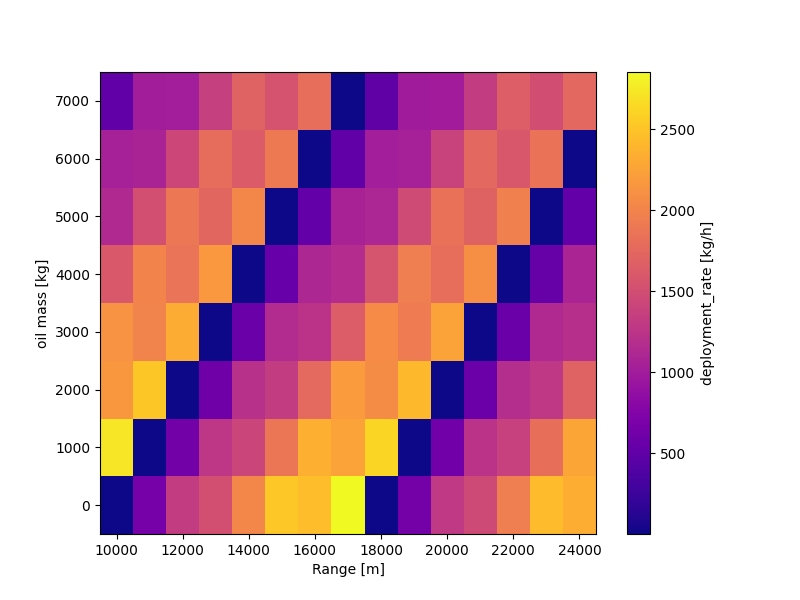
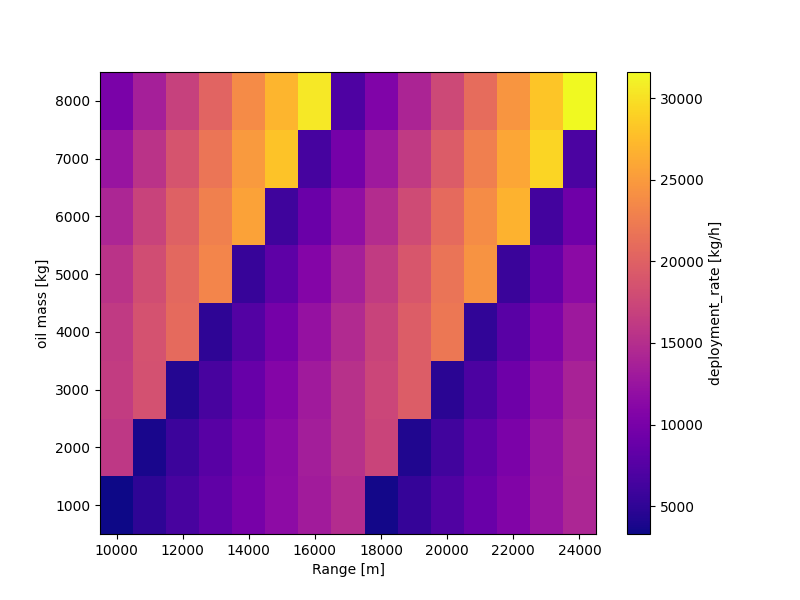
Help

diff --git a/DetailedDesign/performance.py b/DetailedDesign/performance.py
@@ -62,10 +62,6 @@ class Performance:
         `self.time_uav` and `self.total_mission_time` before the rates are calculated.
         """
 
-
-        self.total_mission_time_oil = ... # Func(range, n_UAVs, n_workers, self.nr_runs_oil)
-        self.total_mission_time_fire = ... #
-
         #single calculation
 
         # Deployment rate is from the time the first UAV takes off to the time the last one lands
@@ -76,21 +72,24 @@ class Performance:
         if plot:
 
             range_range = range(10000, 25000, 1000)
-            oil_range = range(1, 8000, 1000)
-            perimeter_range = range(1, 2000, 1000)
+            oil_range = range(1000, 8001, 1000)
+            perimeter_range = range(100, 2000, 1000)
             
             dep_range = []
             grid = []
             for r in range_range:
+                print(r)
                 for m in oil_range:
-                    mis = Mission(self.inputs)
+                    mis = Mission(self.inputs, verbose=True)
                     mis.oil_mass = m
                     mis.mission_type = 'oil_spill'
-                    res, _ = mis.performance_calcs(r, self.n_uavs, self.n_nests, self.n_workers)
-                    res = m / (res/60/60)
+                    mis.R_max = r
+                    # res, _ = mis.performance_calcs(r, self.n_uavs, self.n_nests, self.n_workers)
+                    # res = m / (res/60/60)
+                    mis.calc_total_mission_time()
+                    res = mis.time_operation
                     dep_range.append(res)
                     grid.append((r, m))
-                    print(r, m, res)
 
 
             range_vals = sorted(set([pt[0] for pt in grid]))
@@ -193,7 +192,7 @@ if __name__ == '__main__':
         "time_scan": 60.0,
         "mission_type": "oil_spill",
         "mission_perimeter": 1000.0,
-        "oil_mass": 5000.0,
+        "oil_mass": 7000.0,
         "R_max": 20000.0,
         "R_min": 1000.0,
         #"nr_aerogels": 12,
@@ -205,8 +204,33 @@ if __name__ == '__main__':
         "time_between_containers": 60.0,
         "time_final_wrapup": 60.0,
     }
+
     test_inputs_performance.update(deployment_funny_inputs)
 
     perf = Performance(test_inputs_performance)
 
     perf.deployment_rates()
+
+
+'''
+17 km
+UAV Mission Time: 2578.333333333333 seconds
+Number of cycles: 1.0
+Time Operation: 42.972222222222214 minutes
+UAV Mission Time: 2578.333333333333 seconds
+total_mission_time 6066.666666666666
+
+18 km
+UAV Mission Time: 2711.6666666666665 seconds
+Number of cycles: 1.0
+Time Operation: 45.19444444444444 minutes
+UAV Mission Time: 2711.6666666666665 seconds
+total_mission_time 6333.333333333333
+
+19 km
+UAV Mission Time: 2845.0 seconds
+Number of cycles: 1.0
+Time Operation: 47.416666666666664 minutes
+UAV Mission Time: 2845.0 seconds
+
+'''

diff --git a/DetailedDesign/mission.py b/DetailedDesign/mission.py
@@ -13,8 +13,8 @@ class Mission:
 
     def __init__(self, inputs: dict[str, float], verbose: bool = False) -> None:
         
-        self.inputs = inputs
-        self.outputs = self.inputs.copy() # Copy inputs to outputs
+        # self.inputs = inputs
+        # self.outputs = self.inputs.copy() # Copy inputs to outputs
         self.verbose = verbose
 
         #Nest
@@ -83,7 +83,7 @@ class Mission:
         self.R_min = inputs["R_min"]
 
 
-        self.deployment = Deployment(self.inputs, 'perimeter', self.mission_perimeter)
+        self.deployment = Deployment(inputs, 'perimeter', self.mission_perimeter)
 
         #Aerogel Specifics
         #self.num_aerogels = inputs["nr_aerogels"]
@@ -380,6 +380,9 @@ class Mission:
         # else:
         total_mission_time = self.time_preparation + self.time_operation #+ self.time_wrapup
         self.total_mission_time = total_mission_time
+
+        if self.verbose:
+            print('total_mission_time', total_mission_time)
 
         # if self.UAV_launch_time > self.time_turnaround + self.margin:
         #     pass # ADD MARGIN STUFF
